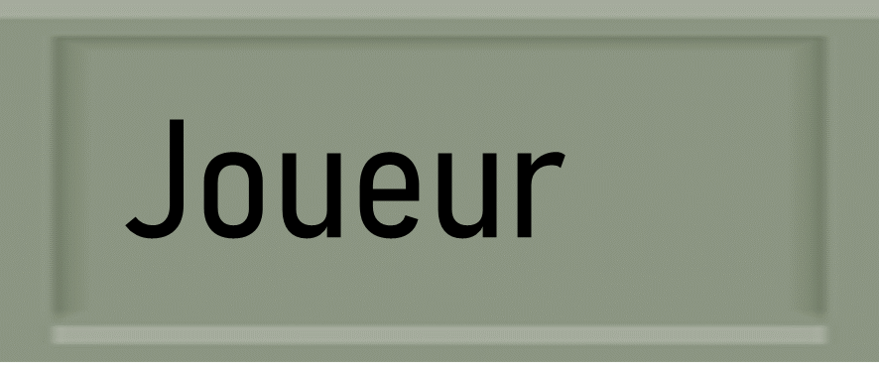
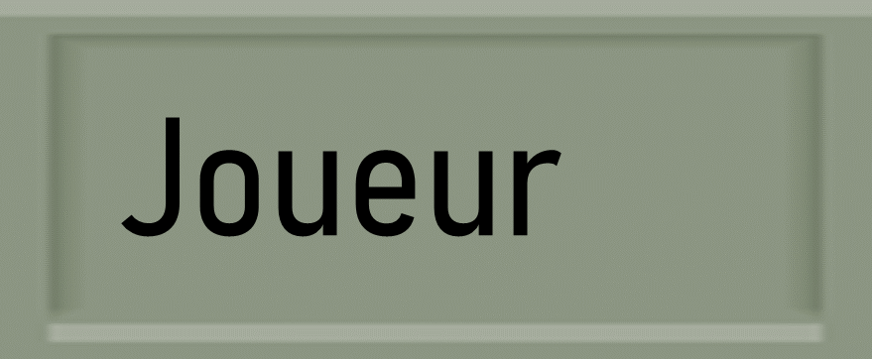
maj

diff --git a/Bomberball/core/src/com/bomber/game/Solo.java b/Bomberball/core/src/com/bomber/game/Solo.java
@@ -16,6 +16,12 @@ public class Solo extends Etat implements Screen {//etat multijoueur
     int pm=5;
     int nb=1;
     Image back;
+
+    Image joueur;
+    Image bombe;
+    Image mouvement;
+    Image pousse;
+    Image explosion;
     private Bomberball bombaaaagh;
     public Solo(Bomberball bombaaaagh,Jeu jeu) {
         super(jeu);
@@ -104,9 +110,13 @@ public class Solo extends Etat implements Screen {//etat multijoueur
     public void show() {
         pm=5;
         nb=1;
+        int ymax= Toolkit.getDefaultToolkit().getScreenSize().height;
         back= new Image(new Texture(Gdx.files.internal("backmain.png")) );
         back.setSize(Gdx.graphics.getWidth(),Gdx.graphics.getHeight());
-        int xmax=Toolkit.getDefaultToolkit().getScreenSize().width;
+
+
+
+
 
         if(jeu.map==null){
             if(jeu.nbBonus!=-1){
@@ -120,7 +130,33 @@ public class Solo extends Etat implements Screen {//etat multijoueur
         }
         jeu.map.setPosition(Gdx.graphics.getWidth()-(jeu.map.getGrille().length+2f)*Bomberball.taillecase ,0);
         jeu.map.setScaleY(27f/26f);
+        joueur=new Image(new Texture(Gdx.files.internal("Panneau_joueur.png")));
+        joueur.setWidth(jeu.map.getX()+2f*Bomberball.taillecase);
+        joueur.setHeight(3*Bomberball.taillecase);
+        joueur.setPosition(0,Gdx.graphics.getHeight()-joueur.getHeight());
+
+        mouvement = new Image(new Texture(Gdx.files.internal("Nombre_mouvement.png")));
+        mouvement.setWidth(jeu.map.getX()+2f*Bomberball.taillecase);
+        mouvement.setHeight(3*Bomberball.taillecase);
+        mouvement.setPosition(0,Gdx.graphics.getHeight()-joueur.getHeight()-mouvement.getHeight());
+
+        bombe=new Image(new Texture(Gdx.files.internal("Nombre_bombe.png")));
+        bombe.setWidth(jeu.map.getX()+2f*Bomberball.taillecase);
+        bombe.setHeight(3*Bomberball.taillecase);
+        bombe.setPosition(0,Gdx.graphics.getHeight()-joueur.getHeight()-bombe.getHeight()-mouvement.getHeight());
+
+        explosion=new Image(new Texture(Gdx.files.internal("Portée_bombe.png")));
+        explosion.setWidth(jeu.map.getX()+2f*Bomberball.taillecase);
+        explosion.setHeight(3*Bomberball.taillecase);
+        explosion.setPosition(0,Gdx.graphics.getHeight()-joueur.getHeight()-bombe.getHeight()-mouvement.getHeight()-explosion.getHeight());
+
+
+
         jeu.addActor(back);
+        jeu.addActor(joueur);
+        jeu.addActor(bombe);
+        jeu.addActor(mouvement);
+        jeu.addActor(explosion);
         jeu.addActor(jeu.map);
 
     }
